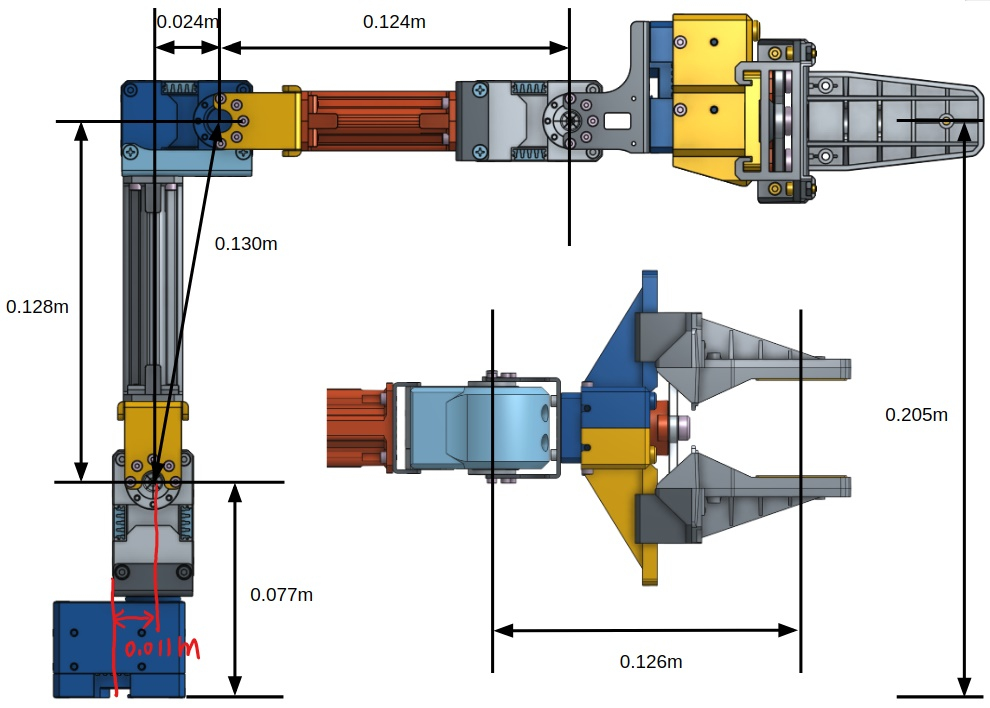
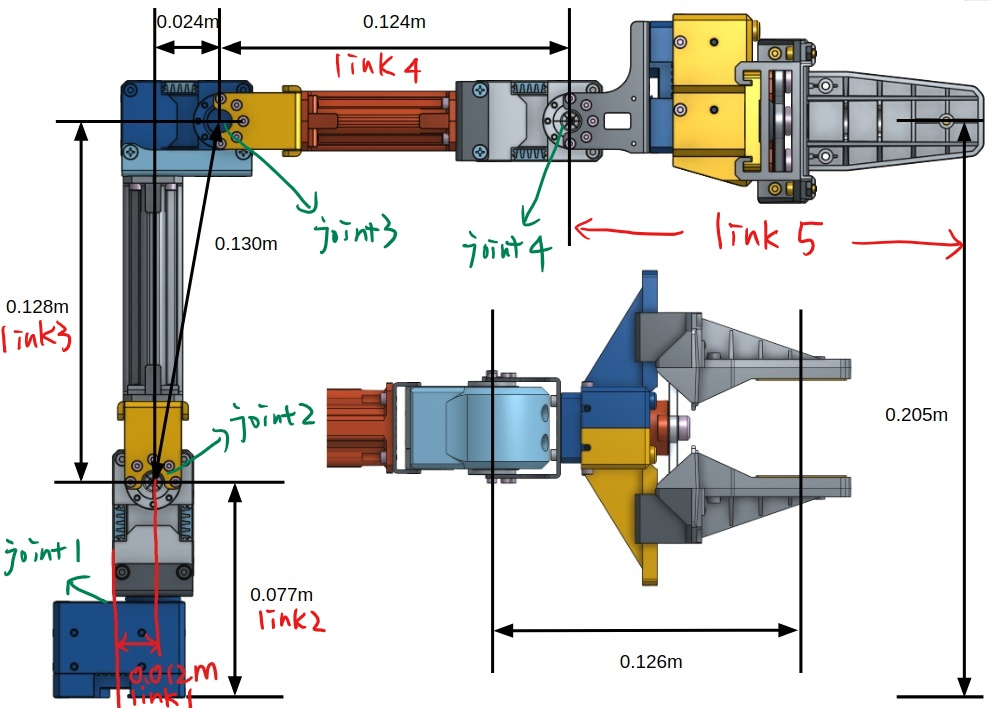
update params for lab4

diff --git a/docs/lab4.rst b/docs/lab4.rst
@@ -133,7 +133,7 @@ Please read carefully the provided code, and understand its functionality.
             print(end_effector_position)
 
             # test case for inverse kinematics
-            end_effector = position(0.018, 0.004, 0.222)
+            end_effector = position(0.0194, 0.0043, 0.2230)
             joints_angle = self.inverse_kinematics(end_effector)
             print(joints_angle)
 
@@ -157,7 +157,7 @@ Please read carefully the provided code, and understand its functionality.
             # hints: access to the x position of end effector by end_effector.x
             # add your code here to complete inverse kinematics
             
-            return jointangle(theta1, theta2, theta3, theta4)
+            return jointangle(theta1, theta2, theta3, pi/3)
 
 
         def move(self, joints):
@@ -212,6 +212,12 @@ Please read carefully the provided code, and understand its functionality.
 - You can see the pose of **link**, and angle of **joint** in Gazebo, 
   by selecting the object and check the property on the left sidebar.
 
+- **Check your result:** If your scripts are correct, 
+  given ``jointangle(pi/6, -pi/3, pi/6, pi/3)`` as the argument of your forward kinematics function, 
+  you should be able to get ``position(0.0194, 0.0043, 0.2230)`` as the return value, 
+  and given ``position(0.0194, 0.0043, 0.2230)`` as the argument of your inverse kinematics function,
+  you should be able to get ``jointangle(pi/6, -pi/3, pi/6, pi/3)`` as the return value.  
+
 - Have fun!
 
 
@@ -232,6 +238,11 @@ Specification
 -------------
 
 The dimension of the open manipulator is the following.
+Note that when you select link5 (gripper) in Gazebo simulation, 
+you will actually get the position of joint4, rather than the center of link5.
+Therefore, you can take the point of joint4 as the end effector in your mathematical calculation.
+Also, this means that theta4 will not be used in your forward and inverse kinematics scripts,
+but only be used for visualization purpose.
 
 .. image:: pics/manipulator.jpg
 
